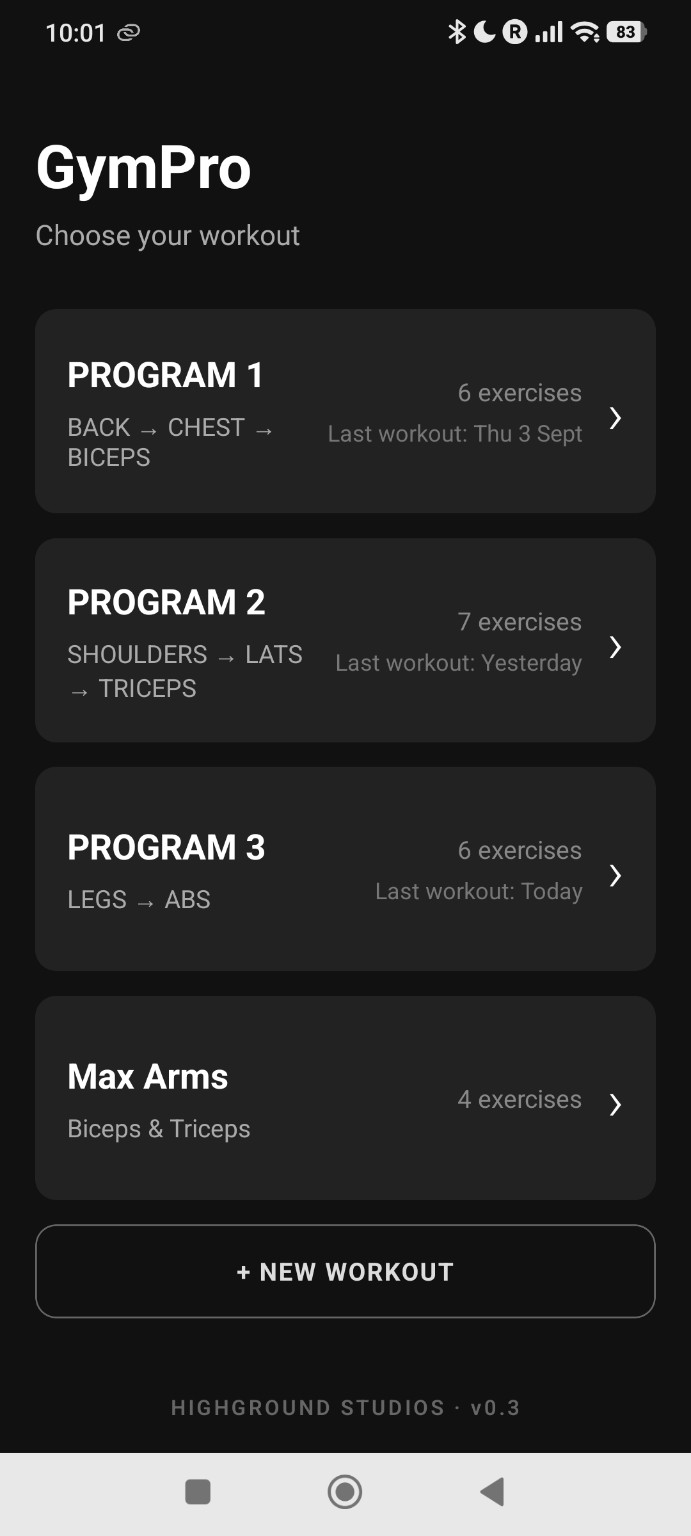
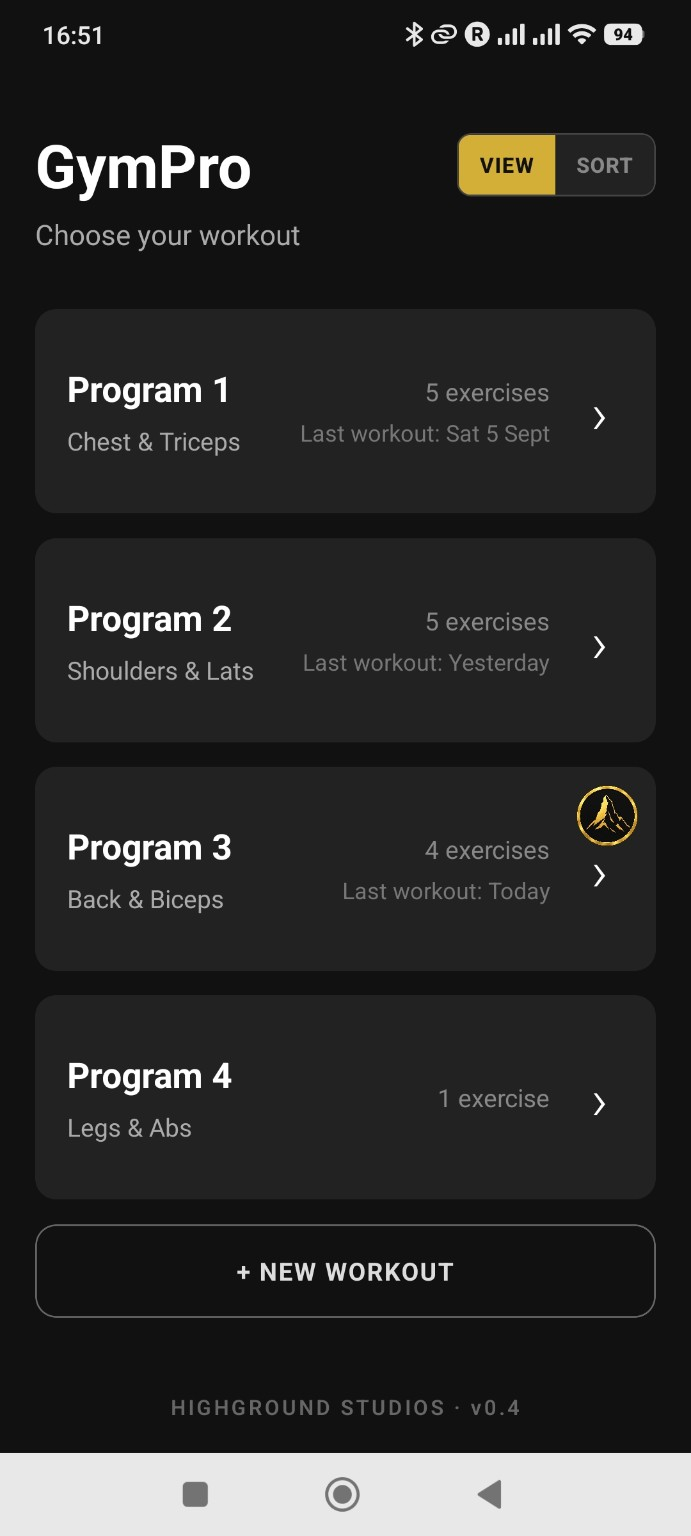
Updated GymPro To Version 0.4

diff --git a/index.html b/index.html
@@ -394,6 +394,117 @@
 
 
         <!-- =====================================================
+             GYMPRO
+             ===================================================== -->
+
+        <section class="gympro" id="gympro">
+
+            <div class="gympro-layout">
+
+                <div class="gympro-content">
+
+                    <h3>GYMPRO</h3>
+
+                    <p class="project-status">
+                        ANDROID BETA
+                    </p>
+
+                    <p class="gympro-intro">
+                        Designed to be different. Complements your training,
+                        rather than getting in the way.
+                    </p>
+
+                    <p>
+                        GymPro grew out of my own frustration with workout trackers.
+                        The ones I tried were often unintuitive, overloaded with adverts,
+                        locked useful features behind premium subscriptions or simply
+                        didn't work particularly well. And after all that, I was still
+                        switching to a separate stopwatch app to time my rest periods.
+                    </p>
+
+                    <p>
+                        So I built something that works the way I want to train.
+                        Efficiently.
+                    </p>
+
+                    <p>
+                        GymPro is designed around the reality that when you're training,
+                        you want to concentrate on your workout, not your phone. The aim
+                        is to demand as little interaction and attention as possible,
+                        with one-touch actions wherever possible without sacrificing
+                        usability.
+                    </p>
+
+                    <p>
+                        Tick off a completed set and your predefined rest timer starts
+                        automatically. A large, easy-to-read timer and clear, scrollable
+                        exercise and (updateable on the fly) set information let you see what you need at a glance,
+                        even when you're busy or working hard.
+                    </p>
+
+                    <p>
+                        Create and organise your own workouts with drag-and-drop sorting
+                        using rep or time based exercises. Number of sets, weight and rep counts completely
+                        customiseable for your personal training approach.
+                    </p>
+
+                    <p>
+                        Simple progression markers help you keep track of what needs to
+                        change next time and a dashboard marker indicates the workout
+                        you used most recently.
+                    </p>
+
+                    <p class="concept-note">
+                        Android beta. Built and tested on real devices.
+                    </p>
+
+                    <div class="app-downloads">
+
+                        <a
+                            href="https://github.com/Odins-Beard/highground-studios/releases/download/gympro-v0.4/GymPro-v0.4.apk"
+                            class="download-button"
+                        >
+                            DOWNLOAD FOR ANDROID
+                        </a>
+
+                        <span class="download-button download-button-disabled">
+                            iOS — COMING SOON
+                        </span>
+
+                    </div>
+
+                </div>
+
+                <div class="gympro-visual">
+
+                    <img
+                        src="assets/images/gympro-dashboard.jpg"
+                        alt="GymPro workout dashboard"
+                        class="gympro-screen gympro-screen-left"
+                    >
+
+                    <img
+                        src="assets/images/gympro-new.jpg"
+                        alt="GymPro workout editing screen"
+                        class="gympro-screen gympro-screen-right"
+                    >
+
+                    <img
+                        src="assets/images/gympro-workout.jpg"
+                        alt="GymPro live workout screen"
+                        class="gympro-screen gympro-screen-front"
+                    >
+
+                    <p class="screenshot-hint">
+                        Hover over a screen to take a closer look
+                    </p>
+
+                </div>
+            </div>
+
+        </section>        
+
+        <!-- =====================================================
              BUDGET SAVER
              ===================================================== -->
 
@@ -480,111 +591,6 @@
                     </p>
                 </div>
 
-            </div>
-
-        </section>
-
-        <!-- =====================================================
-             GYMPRO
-             ===================================================== -->
-
-        <section class="gympro" id="gympro">
-
-            <div class="gympro-layout">
-
-                <div class="gympro-content">
-
-                    <h3>GYMPRO</h3>
-
-                    <p class="project-status">
-                        WORKING PROTOTYPE
-                    </p>
-
-                    <p class="gympro-intro">
-                        Designed to be different. Complements your training,
-                        rather than getting in the way.
-                    </p>
-
-                    <p>
-                        GymPro grew out of my own frustration with workout trackers.
-                        The ones I tried were often unintuitive, overloaded with adverts,
-                        locked useful features behind premium subscriptions or simply
-                        didn't work particularly well. And after all that, I was still
-                        switching to a separate stopwatch app to time my rest periods.
-                    </p>
-
-                    <p>
-                        So I built something that works the way I want to train.
-                        Efficiently.
-                    </p>
-
-                    <p>
-                        GymPro is designed around the reality that when you're training,
-                        you want to concentrate on your workout, not your phone. The aim
-                        is to demand as little interaction and attention as possible,
-                        with one-touch actions wherever possible without sacrificing
-                        usability.
-                    </p>
-
-                    <p>
-                        Tick off a completed set and your predefined rest timer starts
-                        automatically. A large, easy-to-read timer and clear, scrollable
-                        exercise and set information let you see what you need at a glance,
-                        even when you're busy or working hard.
-                    </p>
-
-                    <p>
-                        Create, edit and delete your own workout programs, with rep-based
-                        or timed exercises, weights and simple progression markers to help
-                        keep track of what needs to change next time.
-                    </p>
-
-                    <p class="concept-note">
-                        Working prototype. Built and tested on Android.
-                    </p>
-
-                    <div class="app-downloads">
-
-                        <a
-                            href="https://github.com/Odins-Beard/highground-studios/releases/download/gympro-v0.3/GymPro-v0.3.apk"
-                            class="download-button"
-                        >
-                            DOWNLOAD FOR ANDROID
-                        </a>
-
-                        <span class="download-button download-button-disabled">
-                            iOS — COMING SOON
-                        </span>
-
-                    </div>
-
-                </div>
-
-                <div class="gympro-visual">
-
-                    <img
-                        src="assets/images/gympro-dashboard.jpg"
-                        alt="GymPro workout dashboard"
-                        class="gympro-screen gympro-screen-left"
-                    >
-
-                    <img
-                        src="assets/images/gympro-new.jpg"
-                        alt="GymPro workout editing screen"
-                        class="gympro-screen gympro-screen-right"
-                    >
-
-                    <img
-                        src="assets/images/gympro-workout.jpg"
-                        alt="GymPro live workout screen"
-                        class="gympro-screen gympro-screen-front"
-                    >
-
-                    <p class="screenshot-hint">
-                        Hover over a screen to take a closer look
-                    </p>
-
-                </div>
             </div>
 
         </section>
